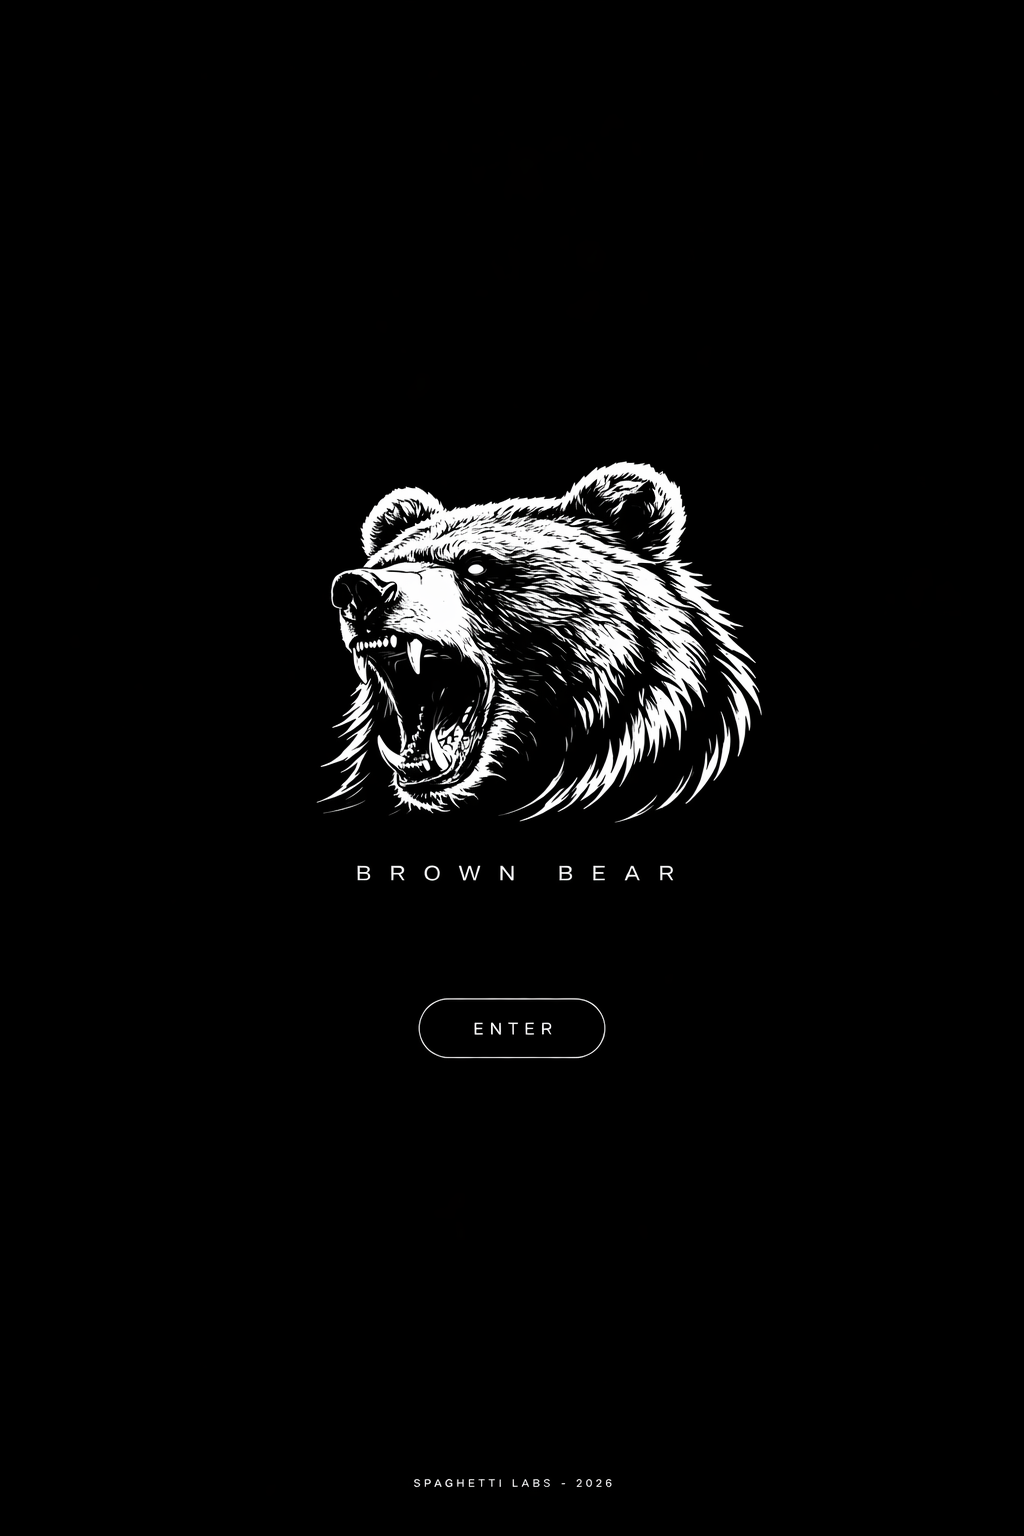
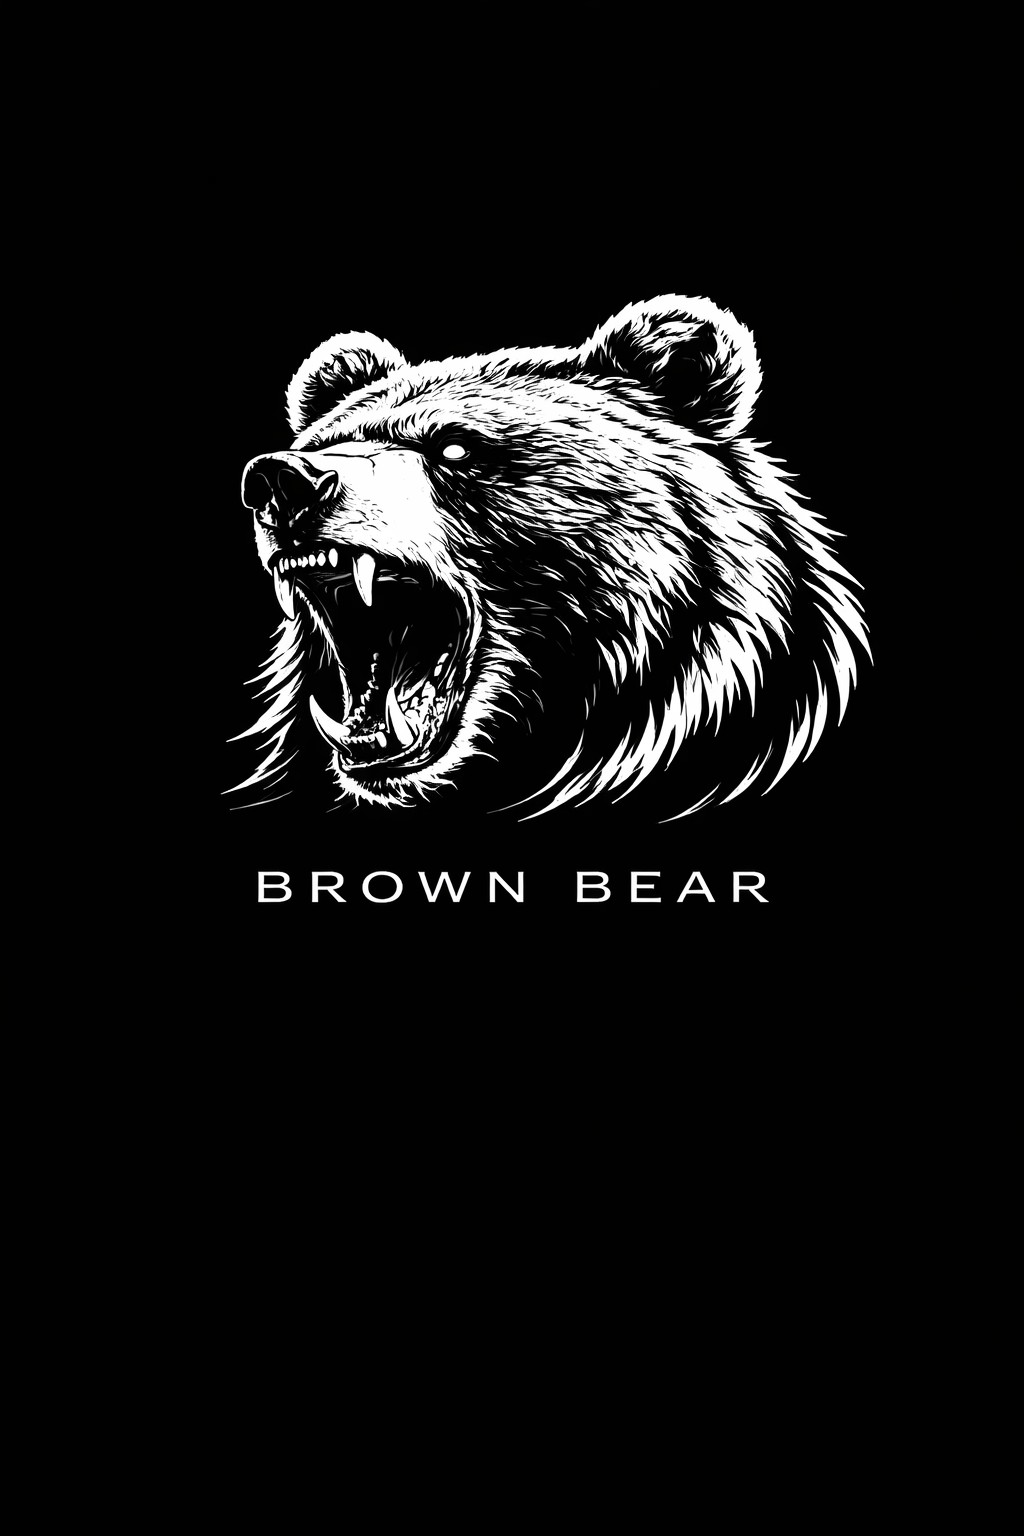
Add files via upload

Changed region(s): [[0.2188, 0.1875, 0.8438, 0.5312], [0.25, 0.5625, 0.5312, 0.5938], [0.5625, 0.5625, 0.75, 0.5938]]

diff --git a/index.html b/index.html
@@ -7,90 +7,45 @@
 <link href="https://fonts.googleapis.com/css2?family=Montserrat:wght@300;400&display=swap" rel="stylesheet">
 <style>
   * { margin: 0; padding: 0; box-sizing: border-box; }
-
-  html, body {
-    width: 100%;
-    height: 100%;
-    background: #000000;
-    overflow: hidden;
-  }
-
+  html, body { width: 100%; height: 100%; background: #000; }
   .page {
-    width: 100%;
-    height: 100vh;
-    display: flex;
-    flex-direction: column;
-    align-items: center;
-    justify-content: center;
-    background: #000000;
-    position: relative;
+    width: 100%; min-height: 100vh;
+    display: flex; flex-direction: column;
+    align-items: center; justify-content: center;
+    background: #000; padding: 40px 20px;
   }
-
   .bear-img {
-    width: 340px;
-    max-width: 75vw;
-    opacity: 0;
-    animation: fadeIn 1.2s ease 0.3s forwards;
+    width: 520px; max-width: 90vw; display: block;
+    opacity: 0; animation: fi 1.4s ease 0.2s forwards;
   }
-
-  .brand {
-    margin-top: 28px;
-    font-family: 'Montserrat', sans-serif;
-    font-size: 22px;
-    font-weight: 300;
-    letter-spacing: 14px;
-    color: #ffffff;
-    text-transform: uppercase;
-    opacity: 0;
-    animation: fadeIn 1s ease 0.8s forwards;
-  }
-
   .enter-btn {
-    margin-top: 52px;
-    padding: 14px 52px;
-    border: 1.5px solid #ffffff;
-    border-radius: 40px;
-    background: transparent;
-    color: #ffffff;
-    font-family: 'Montserrat', sans-serif;
-    font-size: 13px;
-    font-weight: 400;
-    letter-spacing: 5px;
-    text-transform: uppercase;
-    cursor: pointer;
-    text-decoration: none;
-    display: inline-block;
-    opacity: 0;
-    animation: fadeIn 1s ease 1.2s forwards;
+    margin-top: 48px; padding: 14px 56px;
+    border: 1.5px solid rgba(255,255,255,0.7);
+    border-radius: 40px; background: transparent;
+    color: #fff; font-family: 'Montserrat', sans-serif;
+    font-size: 12px; font-weight: 400;
+    letter-spacing: 6px; text-transform: uppercase;
+    cursor: pointer; text-decoration: none; display: inline-block;
+    opacity: 0; animation: fi 1s ease 1s forwards;
     transition: background 0.25s, color 0.25s;
   }
-
-  .enter-btn:hover {
-    background: #ffffff;
-    color: #000000;
-  }
-
+  .enter-btn:hover { background: #fff; color: #000; }
   .footer {
-    position: absolute;
-    bottom: 36px;
-    font-family: 'Montserrat', sans-serif;
-    font-size: 10px;
-    font-weight: 300;
-    letter-spacing: 5px;
-    color: rgba(255,255,255,0.35);
-    text-transform: uppercase;
-    opacity: 0;
-    animation: fadeIn 1s ease 1.6s forwards;
+    position: fixed; bottom: 28px; left: 50%; transform: translateX(-50%);
+    font-family: 'Montserrat', sans-serif; font-size: 9px;
+    font-weight: 300; letter-spacing: 5px;
+    color: rgba(255,255,255,0.25); text-transform: uppercase;
+    white-space: nowrap; opacity: 0; animation: fi2 1s ease 1.4s forwards;
   }
-
-  @keyframes fadeIn {
-    from { opacity: 0; transform: translateY(8px); }
-    to   { opacity: 1; transform: translateY(0); }
+  @keyframes fi {
+    from { opacity: 0; transform: translateY(10px); }
+    to { opacity: 1; transform: translateY(0); }
   }
-
+  @keyframes fi2 {
+    from { opacity: 0; } to { opacity: 1; }
+  }
   @media (max-width: 480px) {
-    .bear-img { width: 260px; }
-    .brand { font-size: 17px; letter-spacing: 10px; }
+    .bear-img { width: 320px; }
     .enter-btn { padding: 12px 40px; font-size: 11px; }
   }
 </style>
@@ -98,9 +53,8 @@
 <body>
 <div class="page">
   <img class="bear-img" src="bear.png" alt="Brown Bear">
-  <div class="brand">Brown Bear</div>
   <a class="enter-btn" href="app.html">Enter</a>
-  <div class="footer">Spaghetti Labs &nbsp;·&nbsp; 2026</div>
 </div>
+<div class="footer">Spaghetti Labs &middot; 2026</div>
 </body>
 </html>
